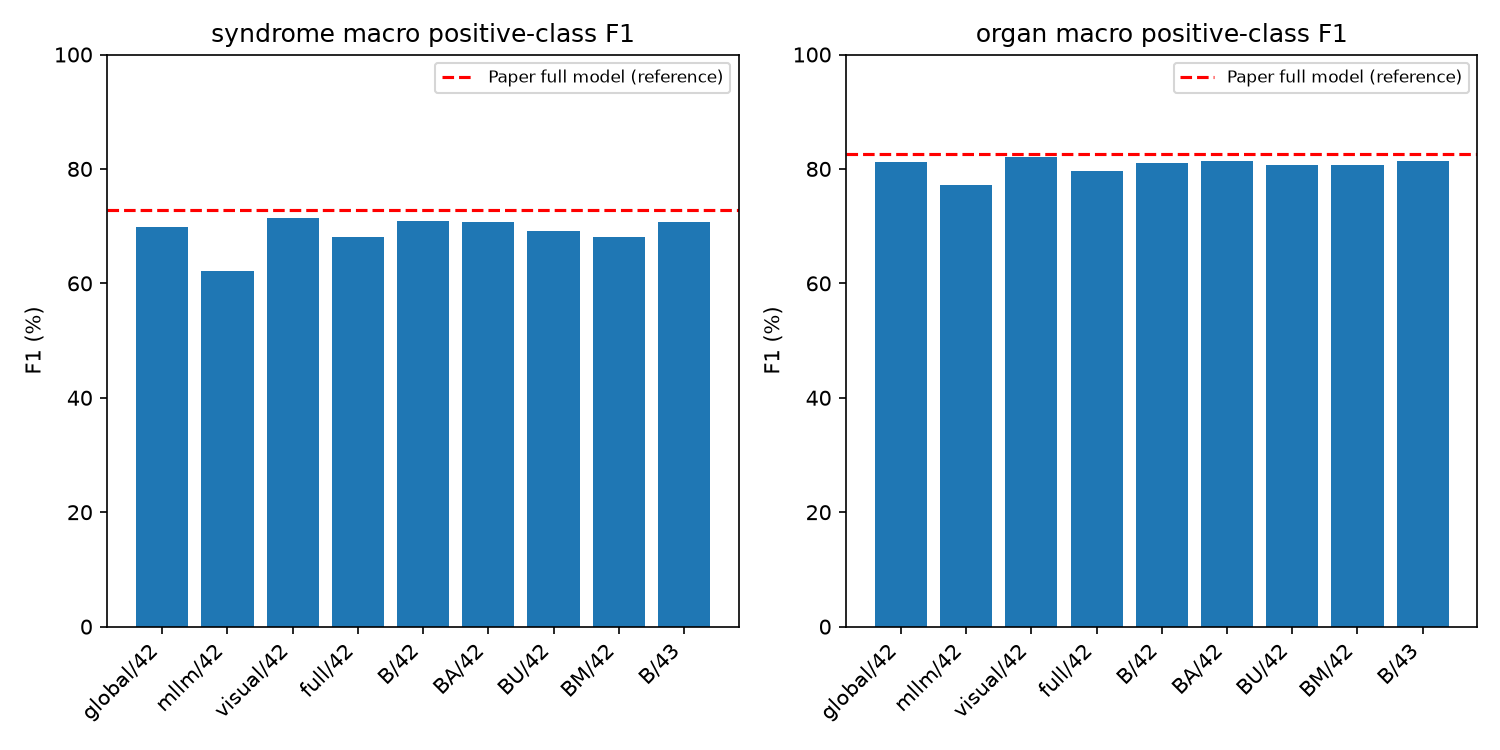
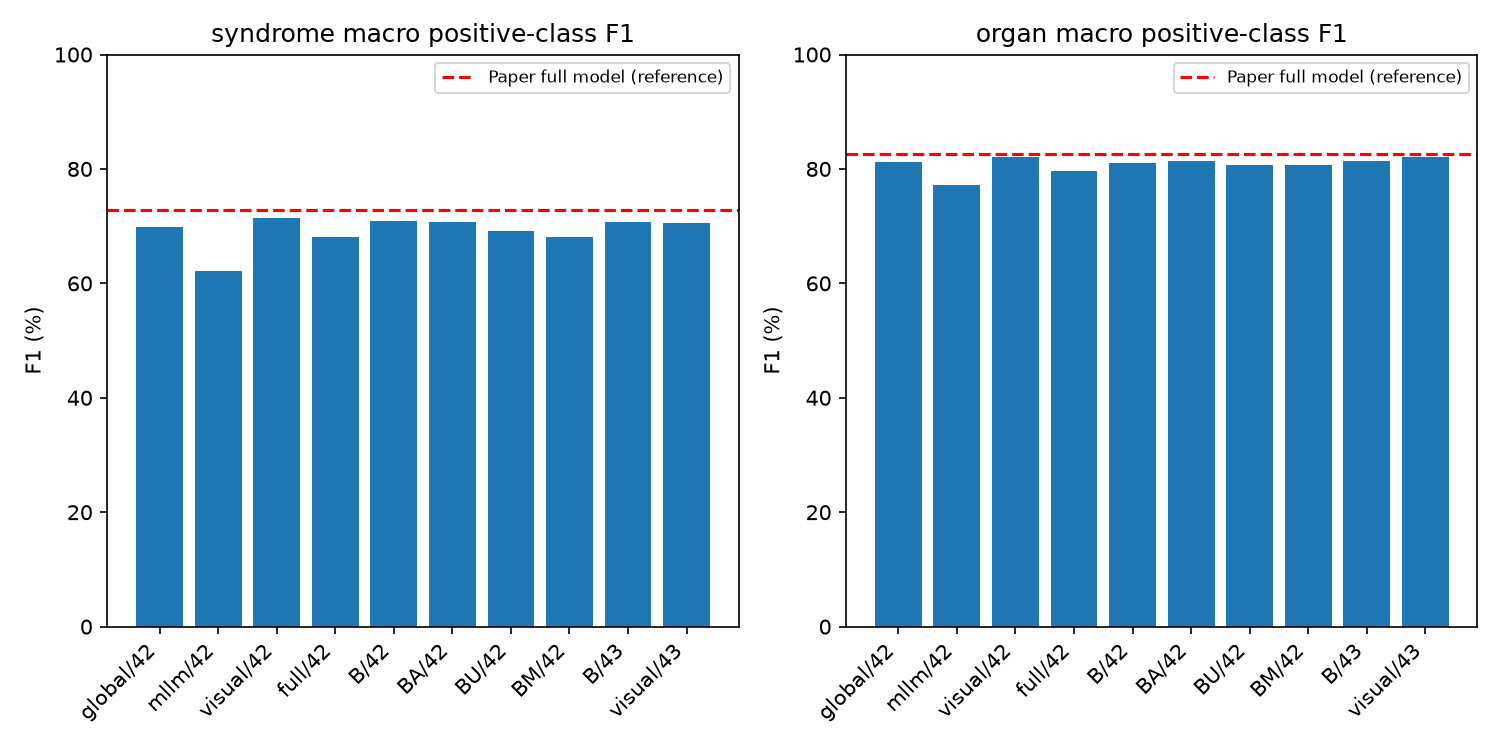
results: resume visual seed 43 reproduction milestone

Changed region(s): [[0.552, 0.2147, 0.9507, 0.9507], [0.0613, 0.276, 0.46, 0.9507], [0.8893, 0.92, 0.92, 0.9507]]

diff --git a/scripts/continue_reproduction_suite.py b/scripts/continue_reproduction_suite.py
@@ -1,0 +1,94 @@
+"""Continue an interrupted fixed reproduction suite from its saved state."""
+
+import argparse
+import json
+import shutil
+import subprocess
+import sys
+import time
+from pathlib import Path
+
+ROOT = Path(__file__).resolve().parents[1]
+sys.path.insert(0, str(ROOT / 'src'))
+sys.path.insert(0, str(ROOT / 'scripts'))
+from report_reproduction import build_report
+from utils.experiment import write_json
+
+QUEUE = [('global', 42), ('mllm', 42), ('visual', 42), ('full', 42),
+         ('B', 42), ('BA', 42), ('BU', 42), ('BM', 42), ('B', 43),
+         ('visual', 43), ('full', 43), ('B', 44), ('visual', 44), ('full', 44)]
+
+
+def run_dirs(suite, model, seed):
+    return sorted(suite.glob(f'*_code_compat_{model}_seed{seed}'))
+
+
+def main():
+    parser = argparse.ArgumentParser(description=__doc__)
+    parser.add_argument('--suite', type=Path, required=True)
+    parser.add_argument('--features', type=Path, required=True)
+    args = parser.parse_args()
+    suite = args.suite.resolve()
+    report = ROOT / 'reports/reproduction' / suite.name
+    report.mkdir(parents=True, exist_ok=True)
+    state = json.loads((suite / 'suite_status.json').read_text())
+    state['status'] = 'running'
+    state.pop('pid', None)
+    run_paths = []
+    for item in state['queue']:
+        paths = run_dirs(suite, item['model'], item['seed'])
+        complete = [path for path in paths if (path / 'summary.json').is_file()]
+        if complete:
+            chosen = complete[-1]
+            item.update(status='complete', run=str(chosen), returncode=0)
+            run_paths.append(chosen)
+        else:
+            item.update(status='pending')
+    write_json(suite / 'suite_status.json', state)
+    write_json(report / 'suite_status.json', state)
+    build_report(run_paths, report)
+
+    fixed_config = suite / 'fixed_config.json'
+    for item in state['queue']:
+        if item['status'] == 'complete':
+            continue
+        if shutil.disk_usage(ROOT).free < 20 * 2**30:
+            raise OSError('Less than 20 GiB free; cannot safely write full training checkpoints')
+        item['status'] = 'running'
+        log_path = suite / f'{item["model"]}_seed{item["seed"]}.log'
+        command = [sys.executable, str(ROOT / 'src/train/reproduce.py'),
+                   '--config', str(fixed_config), '--model', item['model'],
+                   '--seed', str(item['seed']), '--output-dir', str(suite)]
+        started = time.monotonic()
+        write_json(suite / 'suite_status.json', state)
+        with log_path.open('w') as log:
+            returncode = subprocess.run(command, cwd=ROOT, stdout=log,
+                                        stderr=subprocess.STDOUT).returncode
+        paths = run_dirs(suite, item['model'], item['seed'])
+        created = [path for path in paths if path not in run_paths]
+        if len(created) != 1:
+            raise RuntimeError(f'Expected one new run for {item["model"]}/{item["seed"]}: {created}')
+        path = created[0]
+        run_paths.append(path)
+        item.update(status='complete' if returncode == 0 else 'failed',
+                    returncode=returncode, seconds=time.monotonic() - started,
+                    run=str(path))
+        if returncode == 0 and (path / 'checkpoints/last.pt').exists():
+            (path / 'checkpoints/last.pt').unlink()
+        write_json(suite / 'suite_status.json', state)
+        build_report(run_paths, report)
+        write_json(report / 'suite_status.json', state)
+        if returncode:
+            state['status'] = 'failed'
+            write_json(suite / 'suite_status.json', state)
+            write_json(report / 'suite_status.json', state)
+            raise RuntimeError(f'Failed run: {path}')
+    state['status'] = 'complete'
+    write_json(suite / 'suite_status.json', state)
+    write_json(report / 'suite_status.json', state)
+    build_report(run_paths, report)
+    print(f'COMPLETE SUITE {report}')
+
+
+if __name__ == '__main__':
+    main()

diff --git a/docs/reproduction_progress.md b/docs/reproduction_progress.md
@@ -35,3 +35,9 @@ uv run --no-sync python scripts/run_reproduction_suite.py \
 训练数据、模型权重、逐图预测和区域原图保留本地 `data/outputs`；Git 记录代码、配置、aggregate 表格与量化图。`outputs/reproduction/<时间戳>_suite/suite_status.json` 为队列实时状态；`reports/reproduction/<同时间戳>_suite/` 在每次模型结束后更新。报告只收录实际完成的正式实验，不把短跑当作论文结果。
 
 P5 的外部 SOTA 实现和同 split 逐图预测、Sankey 的 8×5 提取公式目前尚未取得；本地 B/visual/full 的配对 subject bootstrap 使用 10,000 次与固定 seed=20261005。不能把这些区间声称为论文 TVMoE 对比。GradCAM 在主要模型训练完成后使用固定样本补充。上述内容仍为待完成项。
+
+## 2026-10-05 下午续跑记录
+
+原固定 suite 父进程在 `visual seed=43` 第 71 轮后退出；该运行的 `last.pt` 可读且状态完整，没有使用测试集选择模型。已从该 checkpoint 续跑至原定 patience=50，续跑目录为 `outputs/reproduction/20261005_042629_774918_suite/20261005_154605_393374_code_compat_visual_seed43/`，best epoch=81，测试集 895 张完整评估：证候 Acc/F1=84.86%/70.60%，脏腑 Acc/F1=79.55%/82.07%。旧中断目录保留为 provenance，不计入报告。
+
+新增 `scripts/continue_reproduction_suite.py` 用于按 suite 状态恢复：已完成目录复用，未完成项顺序执行，每项结束更新报告，成功后删除 `last.pt` 以保留 best checkpoint。该恢复队列当前已启动 `full seed=43`；报告和 `suite_status.json` 会随队列推进更新。当前报告已收录 10 个实际完成运行（global、mllm、visual/full seed=42、B/BA/BU/BM seed=42、B/visual seed=43），未将 full seed=43 及 seed=44 运行提前计入。

diff --git a/reports/reproduction/20261005_042629_774918_suite/reproduction_report.md b/reports/reproduction/20261005_042629_774918_suite/reproduction_report.md
@@ -18,6 +18,7 @@ code_compat 保留独立七图增强、无 ImageNet normalization、global-only 
 | BU | 42 | 130 | 84.99 / 69.11 | 78.59 / 80.64 |
 | BM | 42 | 83 | 83.18 / 68.10 | 77.30 / 80.65 |
 | B | 43 | 92 | 85.22 / 70.79 | 78.79 / 81.32 |
+| visual | 43 | 81 | 84.86 / 70.60 | 79.55 / 82.07 |
 
 六组消融和主模型多 seed 的运行状态见 `run_status.json`；未完成时不宣称整个复现完成。
 TVMoE 等外部实现/同 split 逐图预测、论文 Sankey 8×5 公式仍缺失，不能复现对应比较和图。
